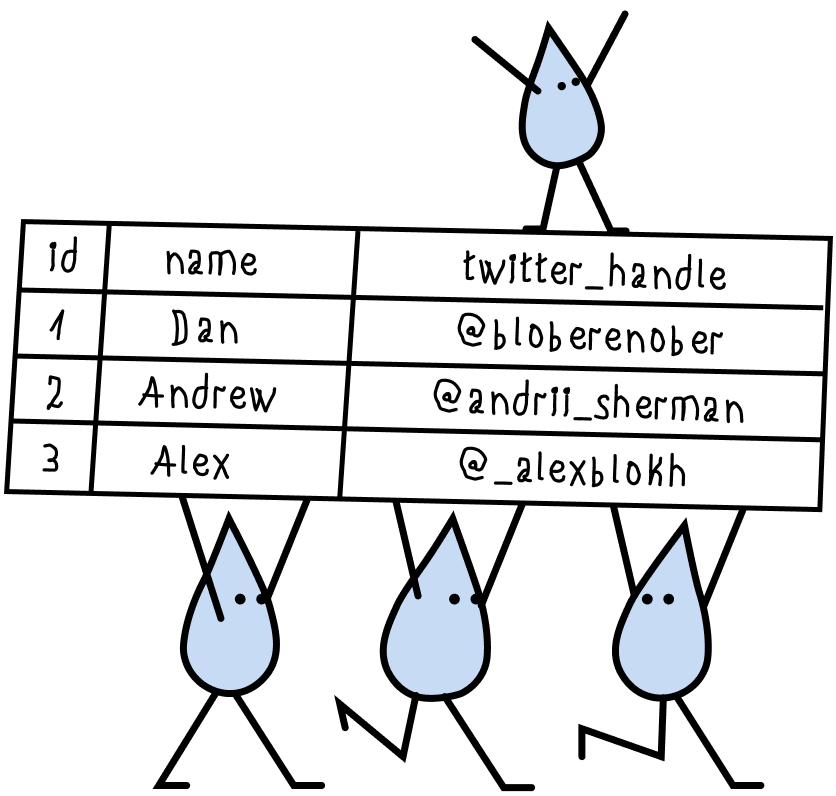
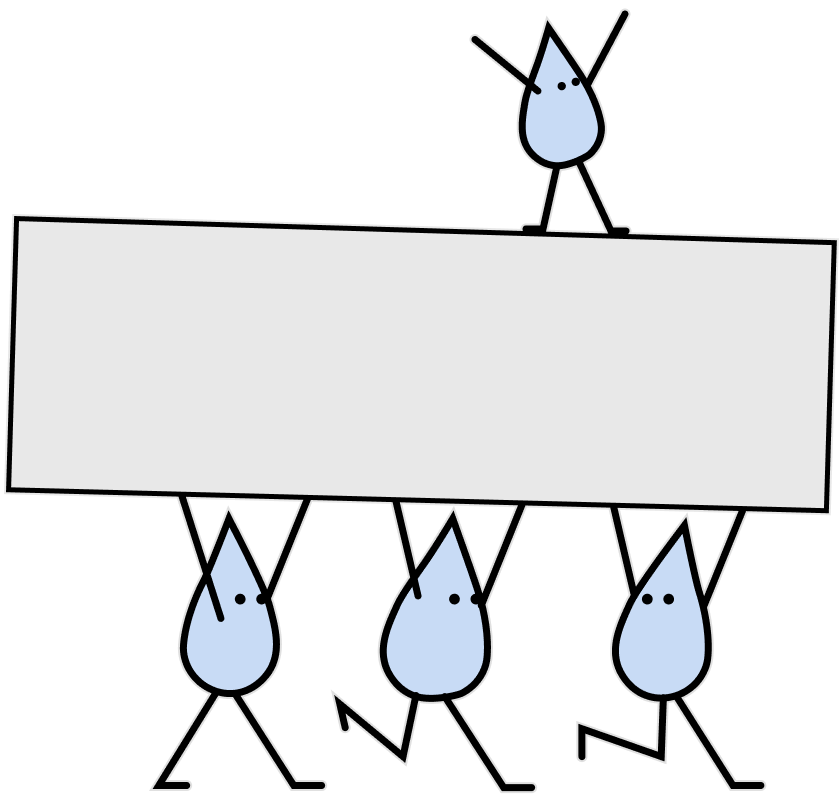
Add interactive team table

diff --git a/components/pages/LandingPage/LandingComponents/Header/Header.module.css b/components/pages/LandingPage/LandingComponents/Header/Header.module.css
@@ -49,6 +49,58 @@ html[class~=dark] .light {
 
 .mainpicture_wrapper {
   width: 100%;
+  position: relative;
+}
+
+.mainpicture_wrapper .team {
+  position: absolute;
+  left: 1.35%;
+  top: 28.7%;
+  right: 0.6%;
+  bottom: 36.9%;
+  background: white;
+  font-family: 'FirstTimeWriting';
+  font-weight: bold;
+  font-size: 20px;
+  text-shadow: 0 0 0.5px black;
+  display: inline-grid;
+  grid-template-columns: max-content 1.5fr 2.5fr;
+  grid-auto-rows: 1fr;
+  border-bottom: 3px solid black;
+  border-left: 3px solid black;
+  transform: rotate(1.6deg);
+}
+
+.mainpicture_wrapper .team > * {
+  border-top: 3px solid black;
+  border-right: 3px solid black;
+  text-align: center;
+  text-decoration: none;
+  position: relative;
+  color: black;
+  display: flex;
+  align-items: center;
+  justify-content: center;
+}
+
+.mainpicture_wrapper .team .id {
+  min-width: 50px;
+}
+
+.mainpicture_wrapper .team a.handle:hover:after {
+  content: attr(data-text);
+  position: absolute;
+  left: 0;
+  top: 8%;
+  right: 0;
+  bottom: 0;
+  color: transparent;
+  text-shadow: none;
+  white-space: nowrap;
+  text-decoration: underline;
+  text-decoration-style: wavy;
+  text-underline-offset: 3px;
+  text-decoration-color: rgb(75, 183, 74);
 }
 
 .picture {
@@ -69,6 +121,18 @@ html[class~=dark] .light {
   transform: rotateY(180deg);
 }
 
+@media (max-width: 1071px) {
+  .mainpicture_wrapper .team {
+    font-size: 1.865vw;
+  }
+}
+
+@media (max-width: 950px) {
+  .mainpicture_wrapper .team a.handle:hover:after {
+    top: 0;
+  }
+}
+
 @media (max-width: 1023px) {
   .typing {
     font-size: 32px;
@@ -80,6 +144,12 @@ html[class~=dark] .light {
   }
 }
 
+@media (max-width: 850px) {
+  .mainpicture_wrapper .team a.handle:hover:after {
+    top: -1px;
+  }
+}
+
 @media (max-width: 767px) {
   .typing {
     font-size: 24px;
@@ -88,6 +158,10 @@ html[class~=dark] .light {
   }
   .text_image {
     right: 40px;
+  }
+
+  .mainpicture_wrapper .team {
+    font-size: 1.7vw;
   }
 }
 
@@ -123,60 +197,12 @@ html[class~=dark] .light {
   .particle {
     display: none;
   }
-}
 
-.team {
-  position: absolute;
-  top: 130px;
-  right: 3px;
-  border-collapse: collapse;
-  font-family: 'FirstTimeWriting';
-  font-weight: bold;
-  font-size: 22px;
-  text-shadow: 0 0 0.5px black;
-  display: inline-grid;
-  grid-template-columns: max-content 150px 250px;
-  grid-auto-rows: 1fr;
-  border-bottom: 3px solid black;
-  border-left: 3px solid black;
-  transform: rotate(2deg);
-}
-
-.team > * {
-  border-radius: 0;
-  border-top: 3px solid black;
-  border-right: 3px solid black;
-  padding: 3px 30px;
-  background-color: #111111;
-  text-align: center;
-  margin: 0;
-  text-decoration: none;
-  position: relative;
-  color: black;
-}
-
-.team a.handle:hover:after {
-  content: attr(data-text);
-  position: absolute;
-  left: 0;
-  top: 8px;
-  right: 0;
-  bottom: 0;
-  color: transparent;
-  text-shadow: none;
-  white-space: nowrap;
-  text-decoration: underline;
-  text-decoration-style: wavy;
-  text-underline-offset: 3px;
-  text-decoration-color: rgb(75, 183, 74);
-}
-
-@media (prefers-color-scheme: dark) {
-  .team > * {
-    color: white;
+  .mainpicture_wrapper .team {
+    font-size: 2.5vw;
   }
-  .team,
-  .team > * {
-    border-color: white;
+
+  .mainpicture_wrapper .team a.handle:hover:after {
+    top: 0;
   }
 }

diff --git a/components/pages/LandingPage/LandingComponents/Header/Header.tsx b/components/pages/LandingPage/LandingComponents/Header/Header.tsx
@@ -2,7 +2,6 @@ import React from 'react';
 import Typer from './Typer/Typer';
 import styles from './Header.module.css';
 import MainPic from './Images/MainPic.png';
-import MainPicDark from './Images/MainPic_dark.png';
 import SecondPic from './Images/SecondPic.png';
 import SecondPicDark from './Images/SecondPic_dark.png';
 import ParticlePic from './Images/ParticlePic.png';
@@ -26,7 +25,45 @@ const Header = () => {
         <div className={styles.picture_block}>
           <img className={styles.addition_image} src={isLight ? SecondPic.src : SecondPicDark.src} alt="Second" />
           <div className={styles.mainpicture_wrapper}>
-            <img className={styles.picture} src={isLight ? MainPic.src : MainPicDark.src} alt="Main" />
+            <img className={styles.picture} src={MainPic.src} alt="Main" />
+            <div className={styles.team}>
+              <div className={styles.id}>id</div>
+              <div>name</div>
+              <div>twitter_handle</div>
+              <div className={styles.id}>1</div>
+              <div>Dan</div>
+              <a
+                className={styles.handle}
+                href="https://twitter.com/bloberenober"
+                target="_blank"
+                data-text="@bloberenober"
+                rel="noreferrer"
+              >
+                @bloberenober
+              </a>
+              <div className={styles.id}>2</div>
+              <div>Andrew</div>
+              <a
+                className={styles.handle}
+                href="https://twitter.com/andrii_sherman"
+                target="_blank"
+                data-text="@andrii_sherman"
+                rel="noreferrer"
+              >
+                @andrii_sherman
+              </a>
+              <div className={styles.id}>3</div>
+              <div>Alex</div>
+              <a
+                className={styles.handle}
+                href="https://twitter.com/_alexblokh"
+                target="_blank"
+                data-text="@_alexblokh"
+                rel="noreferrer"
+              >
+                @_alexblokh
+              </a>
+            </div>
             <img className={styles.particle} src={isLight ? ParticlePic.src : ParticlePicDark.src} alt="Particle" />
           </div>
         </div>
